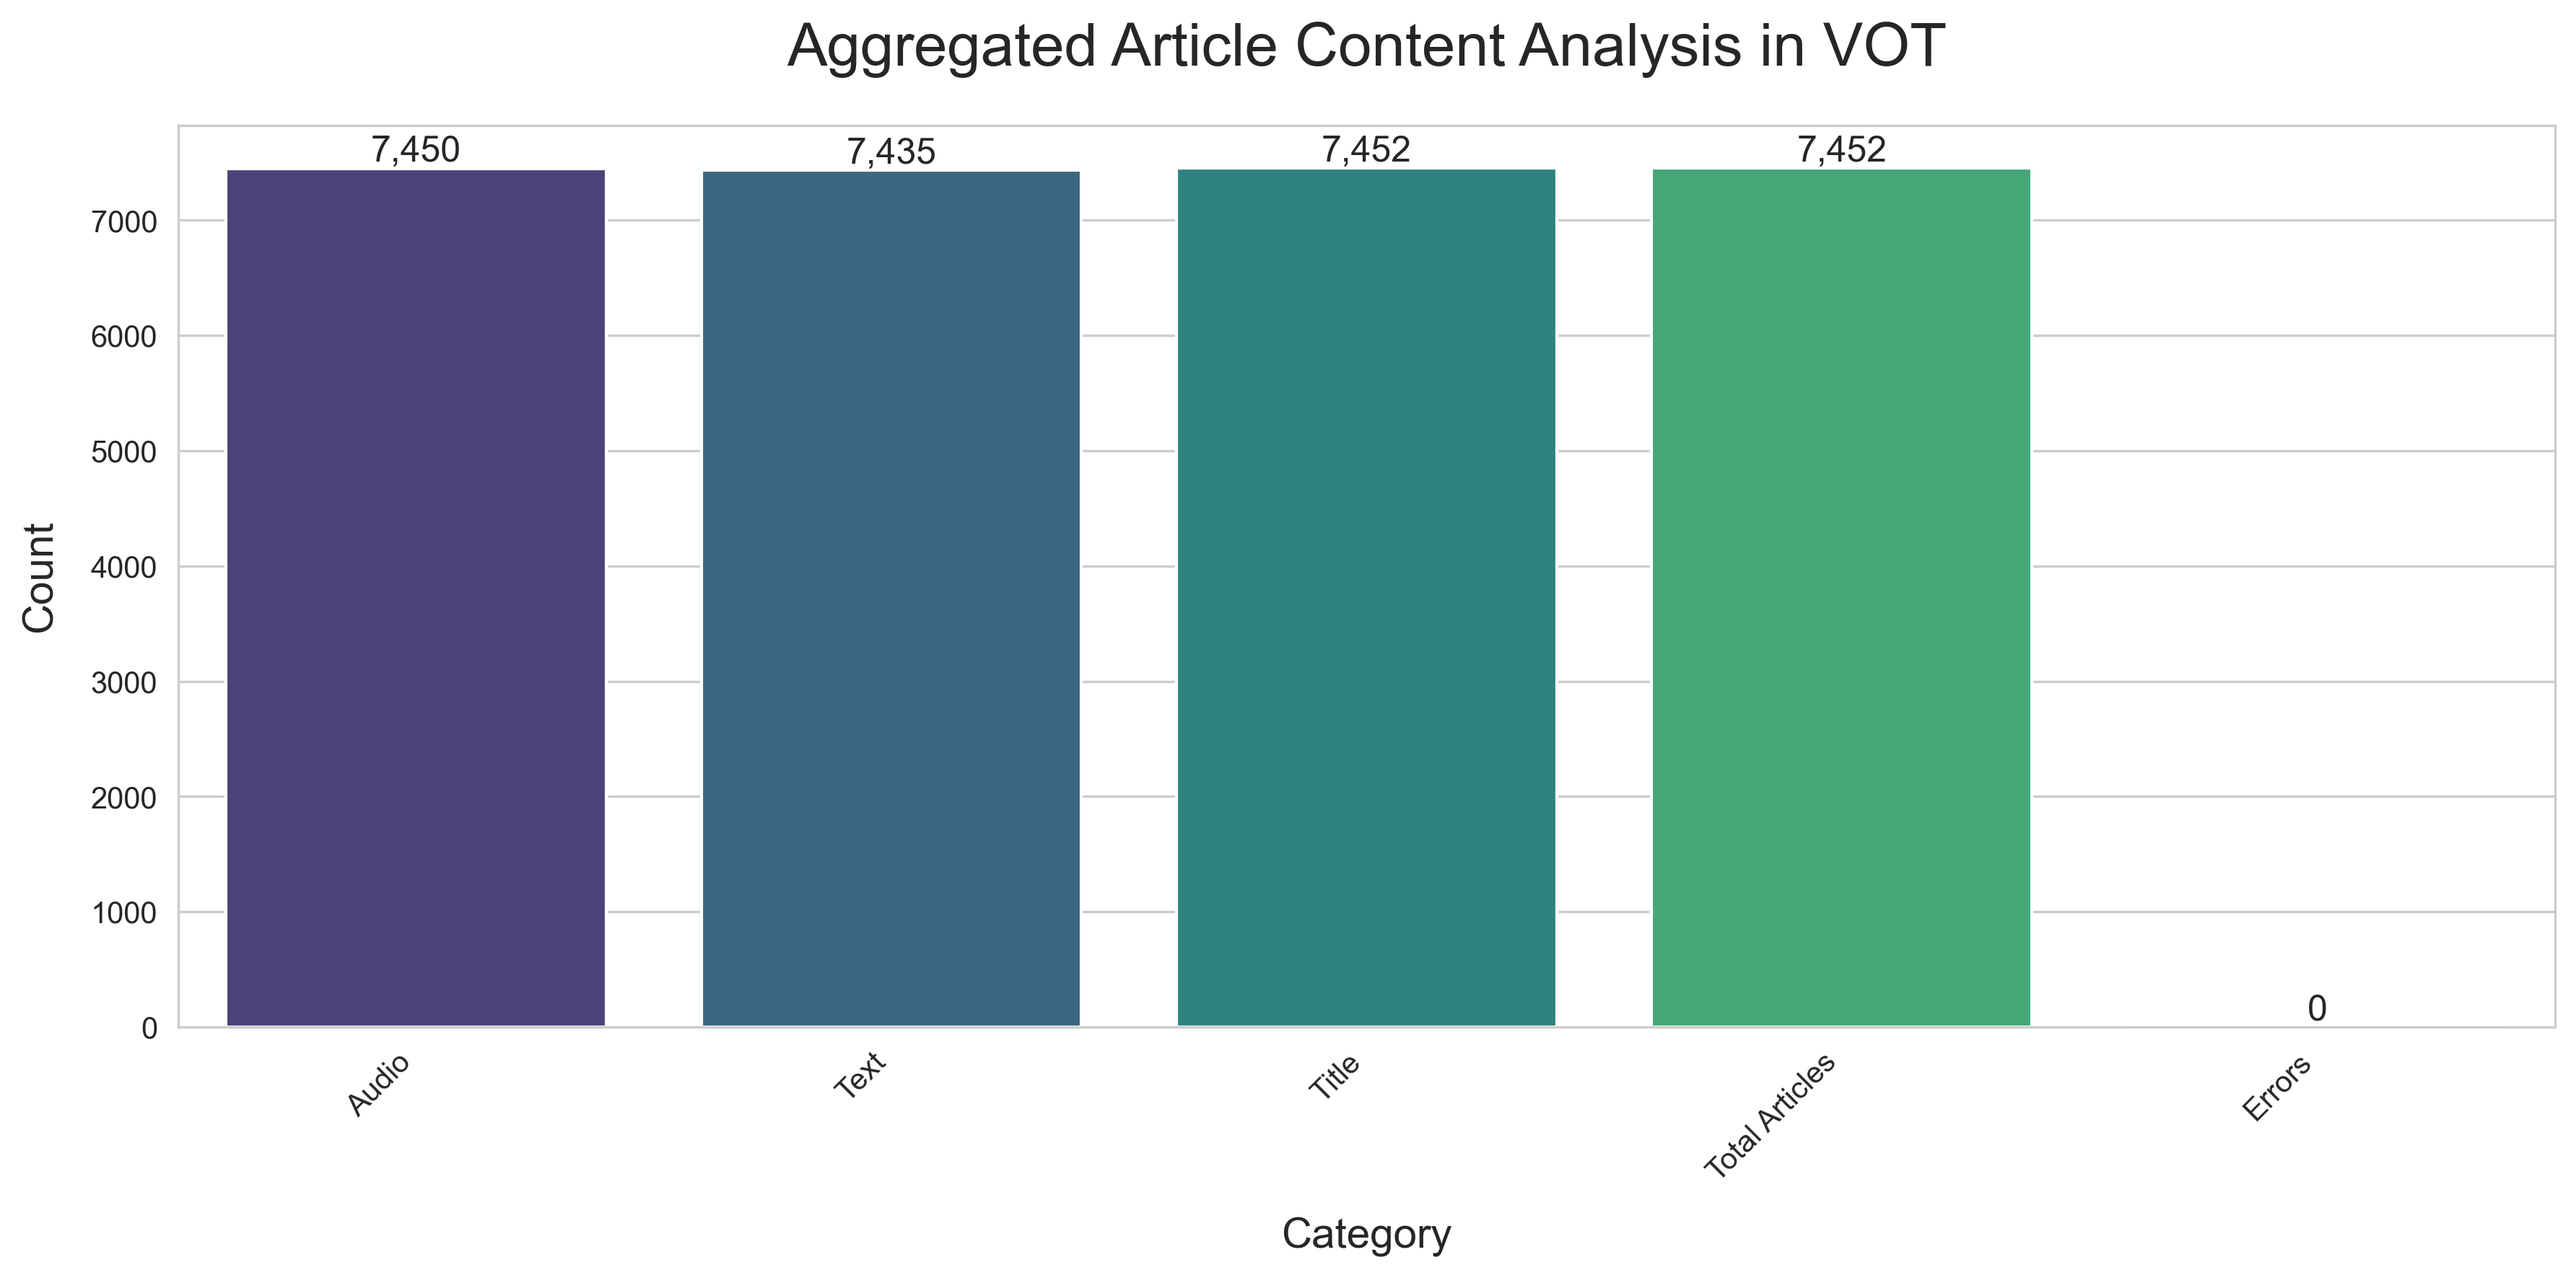
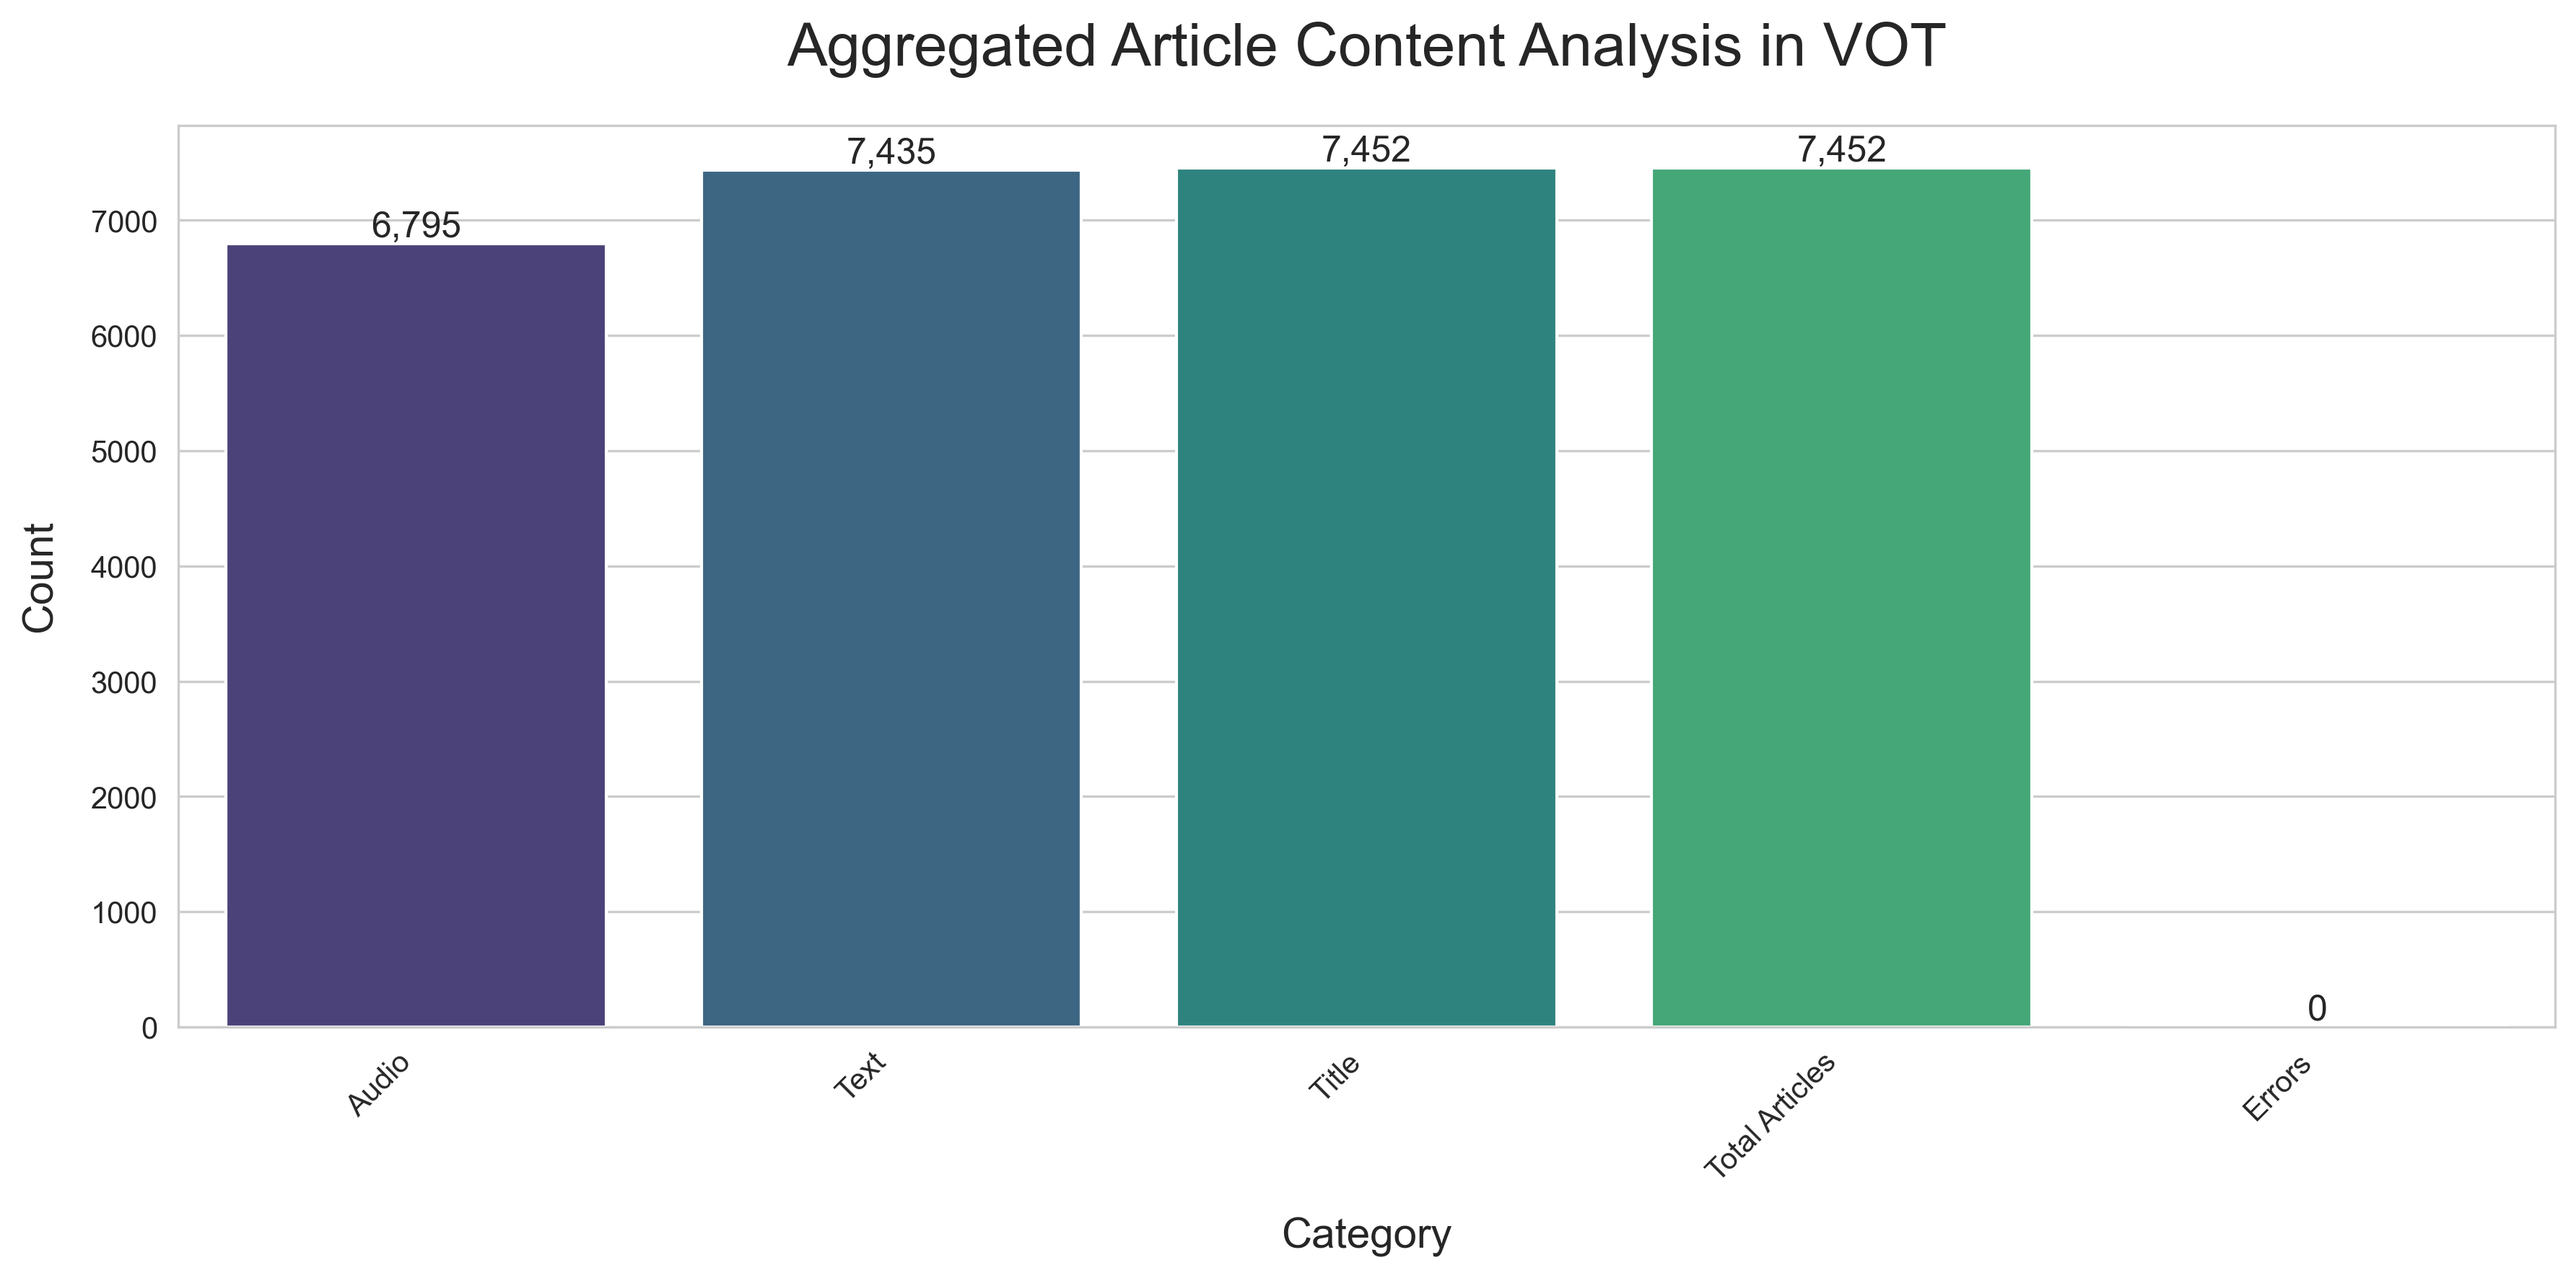
Updated Readme file and some code

Changed region(s): [[0.0622, 0.0931, 0.2488, 0.2173]]

diff --git a/README.md b/README.md
@@ -11,12 +11,18 @@ We need Tibetan news articles for training our machine translation model. This t
 
 ## Tibetan News Websites to be Extracted
 - https://vot.org/ (implemented)
+    - Audio related to the article
 - https://tibettimes.net/ (implemented)
+    - No Audio
 - https://www.voatibetan.com/ (implemented)
+    - Audio not that related
 - https://www.rfa.org/tibetan (implemented)
+    - Audio Seems related
 - http://bangchen.net/ (dead site)
 - http://bangchen.tibetexpress.net  (implemented)
+    - No Audio
 - https://www.gyalwarinpoche.com/ (implemented)
+    - No Audio
 
 ## Subtasks
 1. Implement a function to collect All article links from Website
